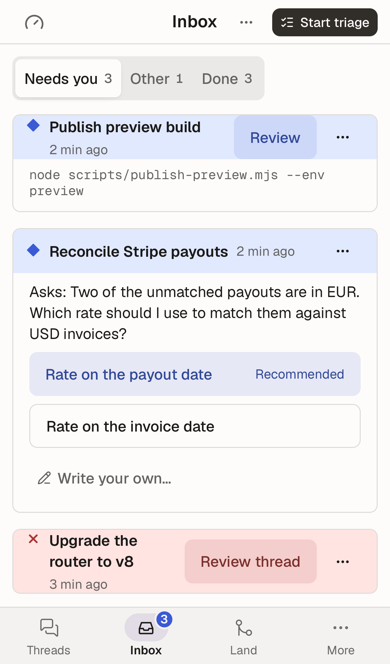
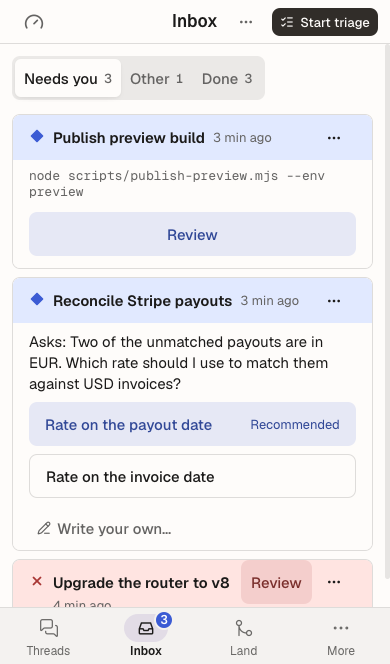
fix(activity-timeline): give a phone Inbox card's title its own row
Council round 6 (C1): on a compact pane the verb wrapped the card title onto two lines. A card with a body now draws its verbs as full-width 44 px buttons at the bottom of its body. The head row is padded 12 by 16 px and holds the title, age and menu. A bodyless Failed card keeps its verb in the head under the short name Review (12 px inset), and its accessible name stays Review thread. Its verb and menu top-align with the title line, and the age wraps under the title. Phone cards stack 8 px apart with no padding under a 44 pt Write your own row, so the third card's action ends above the tab bar at 390x664. The desktop stack stays 16 px.

diff --git a/plugins/@dshfiles/activity-timeline/src/inbox-panel.tsx b/plugins/@dshfiles/activity-timeline/src/inbox-panel.tsx
@@ -67,8 +67,12 @@ import { ThreadReferences } from './thread-reference.js'
 
 const PROVIDER_VERBS: readonly AttentionProviderVerb[] = ['Approve', 'Land', 'Retry', 'Resume']
 
-/** The list is a stack of cards (each item draws its own surface, InboxView.CARD), not one bordered box of rows. */
-const INBOX_STACK = 'dshx:gap-4 dshx:divide-y-0 dshx:rounded-none dshx:border-0 dshx:bg-transparent'
+/**
+ * The list is a stack of cards (each item draws its own surface, InboxView.CARD), not one bordered box of rows: 16px
+ * apart, 8px on a compact pane, where the band and the border already part them and the third card's action stays above
+ * the fold (round six C1).
+ */
+const INBOX_STACK = 'dshx:gap-4 dshx:divide-y-0 dshx:rounded-none dshx:border-0 dshx:bg-transparent dshx:@max-pane-narrow:gap-2'
 
 /** A prompt-library reply a stopped thread's card offers in its menu. */
 interface InboxQuickReply {
@@ -238,11 +242,18 @@ const InboxRow = (props: {
       ? null
       : (ThreadReferences.threadIdIn(item.reason) ?? (item.detail === null ? null : ThreadReferences.threadIdIn(item.detail)))
   /**
-   * The card's verbs in its head row, trailing, before the menu (round five C4, council round 5): what it asks for and
-   * every other verb on one line with the title, so the body holds only what it says and its answers.
+   * The card's verbs (round five C4, council round 5): in its head row, trailing, before the menu, on a wide pane. On a
+   * compact pane a card with a body draws them at the bottom of its body as full-width 44px buttons instead (round six
+   * C1), so the title owns its row; a bodyless Failed card keeps its one verb in the head, under a short name.
    */
-  const headVerbs = (
-        <div data-inbox-row-actions="band" className="dshx:-my-1 dshx:flex dshx:flex-wrap dshx:items-center dshx:justify-end dshx:gap-1 dshx:pointer-coarse:my-0">
+  const hasVerbs =
+    (open && PROVIDER_VERBS.some(verb => item.verbs.includes(verb))) || (open && props.onReview !== undefined) || (openable && !answerable) || undo !== null
+  const footed = InboxView.footsVerbs(compact)
+  const verbButtons = (place: 'head' | 'foot'): JSX.Element => {
+    const size = place === 'head' ? cn('dshx:shrink', InboxView.HEAD_VERB) : InboxView.FOOT_VERB
+    const shortLabel = place === 'head' && !footed ? t(InboxView.shortOpenLabelKey(InboxView.openActionOf(item))) : null
+    return (
+      <>
           {open
             ? PROVIDER_VERBS.filter(verb => item.verbs.includes(verb)).map(verb =>
                 verb === 'Land' ? (
@@ -250,7 +261,7 @@ const InboxRow = (props: {
                     key={verb}
                     size="sm"
                     variant="outline"
-                    className={cn('dshx:shrink', INBOX_CHIP, InboxView.HEAD_VERB)}
+                    className={cn(INBOX_CHIP, size)}
                     disabled={props.busy}
                     onClick={() => setConfirmingLand(true)}
                   >
@@ -261,7 +272,7 @@ const InboxRow = (props: {
                     key={verb}
                     size="sm"
                     variant="outline"
-                    className={cn('dshx:shrink', INBOX_CHIP, InboxView.HEAD_VERB)}
+                    className={cn(INBOX_CHIP, size)}
                     disabled={props.busy}
                     onClick={() => props.onAct(item, verb)}
                   >
@@ -271,7 +282,7 @@ const InboxRow = (props: {
               )
             : null}
           {open && props.onReview !== undefined ? (
-            <Button size="sm" variant="outline" className={cn(INBOX_CHIP, InboxView.HEAD_VERB)} onClick={() => props.onReview?.(item)}>
+            <Button size="sm" variant="outline" className={cn(INBOX_CHIP, size)} onClick={() => props.onReview?.(item)}>
               {t('review')}
             </Button>
           ) : null}
@@ -279,28 +290,30 @@ const InboxRow = (props: {
             <Button
               size="sm"
               variant={open && !item.verbs.includes('Answer') ? InboxView.attentionVariant(status) : 'ghost'}
-              className={cn('dshx:shrink dshx:max-w-full', INBOX_CHIP, InboxView.HEAD_VERB)}
+              className={cn('dshx:max-w-full', INBOX_CHIP, size, shortLabel !== null && InboxView.SHORT_VERB)}
+              aria-label={openLabel}
               onClick={() => props.onOpen(item)}
             >
-              <span className="dshx:truncate">{openLabel}</span>
+              <span className={cn('dshx:truncate', shortLabel !== null && 'dshx:@max-pane-narrow:hidden')}>{openLabel}</span>
+              {shortLabel === null ? null : <span className="dshx:hidden dshx:truncate dshx:@max-pane-narrow:inline">{shortLabel}</span>}
             </Button>
           ) : null}
           {undo === 'reopen' || undo === 'unsnooze' ? (
-            <Button size="sm" variant="outline" className={cn('dshx:shrink', InboxView.HEAD_VERB)} disabled={props.busy} onClick={() => props.onReopen(item)}>
+            <Button size="sm" variant="outline" className={size} disabled={props.busy} onClick={() => props.onReopen(item)}>
               {undo === 'reopen' ? t('reopen') : t('unsnooze')}
             </Button>
           ) : null}
           {undo === 'unmute' ? (
-            <Button
-              size="sm"
-              variant="outline"
-              className={cn('dshx:shrink', InboxView.HEAD_VERB)}
-              disabled={props.busy}
-              onClick={() => props.onMute(item.source, false)}
-            >
+            <Button size="sm" variant="outline" className={size} disabled={props.busy} onClick={() => props.onMute(item.source, false)}>
               {t('unmuteSource')}
             </Button>
           ) : null}
+      </>
+    )
+  }
+  const headVerbs = (
+        <div data-inbox-row-actions="band" className={InboxView.HEAD_SEAT}>
+          {footed ? <span className={InboxView.HEAD_VERBS_WIDE}>{verbButtons('head')}</span> : verbButtons('head')}
           {/* Utility verbs live in the card's menu (round five P2): the row shows the one verb it asks for. */}
           {doneable || snoozable || quickReplies.length > 0 || mutable ? (
             <DropdownMenu>
@@ -354,7 +367,15 @@ const InboxRow = (props: {
   )
   /** The answers a question offers, under it: the one row of controls a card body keeps. */
   const answers = !answerable ? null : (
-        <div data-inbox-row-actions="" className={cn('dshx:flex dshx:flex-wrap dshx:items-center dshx:gap-2 dshx:px-3 dshx:pt-2 dshx:pb-3', InboxView.BODY_INSET)}>
+        <div
+          data-inbox-row-actions=""
+          className={cn(
+            'dshx:flex dshx:flex-wrap dshx:items-center dshx:gap-2 dshx:px-3 dshx:pt-2 dshx:pb-3',
+            // A 44pt "Write your own…" ends a phone card: its own target already leaves 14px under its words (round six C1).
+            openable && 'dshx:@max-pane-narrow:pointer-coarse:pb-0',
+            InboxView.BODY_INSET,
+          )}
+        >
           {[
                 ...item.choices.map((choice, index) => (
                   <Button
@@ -419,6 +440,8 @@ const InboxRow = (props: {
         'dshx:relative',
         // The verbs and the menu share the head row with the title on every width (round five C4, council round 5).
         InboxView.CARD_HEAD,
+        // A bodyless Failed card's verb and menu sit beside its title line, its age under the title (round six C1).
+        !footed && InboxView.COMPACT_SEAT,
         phone && gestures.offset === 0 && 'dshx:transition-transform dshx:duration-150',
         InboxView.headerBand(status),
       )}
@@ -489,6 +512,17 @@ const InboxRow = (props: {
         </div>
       )}
       {props.actionRow === false ? null : answers}
+      {props.actionRow === false || !footed || !hasVerbs ? null : (
+        <div data-inbox-row-actions="foot" className={cn(
+            InboxView.FOOT_VERBS,
+            // 12px from what is above: the body's or the answers' own padding gives it, a bodyless card adds it here.
+            reason === null && card.detail === null && answers === null && 'dshx:pt-3',
+            answers !== null && openable && 'dshx:@max-pane-narrow:pointer-coarse:pt-3',
+          )}
+        >
+          {verbButtons('foot')}
+        </div>
+      )}
       {/* Land rebases the thread's work onto the bookmark and moves it: say what lands before it runs (never one click). */}
       <AlertDialog open={confirmingLand} onOpenChange={setConfirmingLand}>
         <AlertDialogContent className="dshx-root">

diff --git a/plugins/@dshfiles/activity-timeline/src/inbox-view.ts b/plugins/@dshfiles/activity-timeline/src/inbox-view.ts
@@ -87,12 +87,49 @@ const BODY_INSET = 'dshx:pl-9 dshx:@max-pane-narrow:px-4'
 const HEAD_VERB = 'dshx:h-7 dshx:pointer-coarse:h-11'
 
 /**
- * The head row's trailing seat (the verbs and the menu) is an ordinary part of the row at every width. On a phone it
- * stays beside the title instead of wrapping under it (the kit drops it to a line of its own on a narrow pane), and the
- * band is the 44pt seat's height with the title centred on it.
+ * The head row's trailing seat (the menu, and on a wide pane the verbs) is an ordinary part of the row at every width.
+ * On a compact pane (round six C1) the head is padded 12px by 16px and the seat stays beside the title instead of
+ * wrapping under it (the kit drops it to a line of its own on a narrow pane): the title owns the row with its age and ⋯.
  */
 const CARD_HEAD =
-  'dshx:@max-pane-narrow:[&>div:first-child]:items-center dshx:@max-pane-narrow:[&>div:first-child]:py-0 dshx:@max-pane-narrow:[&>div:first-child]:min-h-11 dshx:@max-pane-narrow:[&_[data-slot=entity-row-trailing]]:w-auto'
+  'dshx:@max-pane-narrow:[&>div:first-child]:items-center dshx:@max-pane-narrow:[&>div:first-child]:px-4 dshx:@max-pane-narrow:[&>div:first-child]:py-3 dshx:@max-pane-narrow:[&_[data-slot=entity-row-trailing]]:w-auto'
+
+/**
+ * The head row's seat: 28px controls pulled 4px into the row's padding on a wide pane; on a compact pane the 44pt ⋯ sits
+ * inside the 12px padding, so the head stays 44px tall (important: the touch rule `my-0` is emitted after the container
+ * query and would otherwise win on a phone).
+ */
+const HEAD_SEAT =
+  'dshx:-my-1 dshx:flex dshx:flex-wrap dshx:items-center dshx:justify-end dshx:gap-1 dshx:pointer-coarse:my-0 dshx:@max-pane-narrow:-my-3!'
+
+/** A card with a body hands its verbs to the foot on a compact pane; a bodyless (compact) Failed card keeps them in its head. */
+const footsVerbs = (compactCard: boolean): boolean => !compactCard
+
+/** The head's verbs of a card that foots them: shown on a wide pane only. */
+const HEAD_VERBS_WIDE = 'dshx:contents dshx:@max-pane-narrow:hidden'
+
+/**
+ * The verbs at the bottom of a card's body on a compact pane (round six C1): each a full-width 44px button, 12px from the
+ * text above and the card's edge, so the title never wraps for a button. Hidden on a wide pane, where the head holds them.
+ */
+const FOOT_VERBS = 'dshx:hidden dshx:flex-col dshx:gap-2 dshx:px-4 dshx:pb-3 dshx:@max-pane-narrow:flex'
+const FOOT_VERB = 'dshx:w-full dshx:h-11'
+
+/**
+ * A bodyless (compact) card on a compact pane: its verb and menu keep to the title line, top-aligned, and the age wraps
+ * under the title, so the row never grows the verb's band past the title line.
+ */
+const COMPACT_SEAT =
+  'dshx:@max-pane-narrow:[&_[data-slot=entity-row-trailing]]:self-start dshx:@max-pane-narrow:[&_[data-inbox-row-actions=band]]:gap-0'
+
+/**
+ * That verb's 10px inset on a compact pane (a touch screen gives chips 16px) and no gap before the ghost ⋯, so a title
+ * of about 177px ("Upgrade the router to v8") keeps one line at 390px.
+ */
+const SHORT_VERB = 'dshx:@max-pane-narrow:px-2.5!'
+
+/** The short name a compact card's open verb shows on a phone, so its title keeps one line ("Review", not "Review thread"). */
+const shortOpenLabelKey = (action: InboxOpenAction): 'review' | 'open' => (action === 'review' || action === 'approval' ? 'review' : 'open')
 
 /** Sources whose type says nothing a card does not (a finished turn): the card names the thread's project instead. */
 const PROJECT_SOURCES: ReadonlySet<string> = new Set(['thread-sidebar.finished-turn'])
@@ -305,6 +342,14 @@ export class InboxView {
   static readonly BODY_INSET = BODY_INSET
   static readonly HEAD_VERB = HEAD_VERB
   static readonly CARD_HEAD = CARD_HEAD
+  static readonly HEAD_SEAT = HEAD_SEAT
+  static readonly footsVerbs = footsVerbs
+  static readonly HEAD_VERBS_WIDE = HEAD_VERBS_WIDE
+  static readonly FOOT_VERBS = FOOT_VERBS
+  static readonly FOOT_VERB = FOOT_VERB
+  static readonly shortOpenLabelKey = shortOpenLabelKey
+  static readonly COMPACT_SEAT = COMPACT_SEAT
+  static readonly SHORT_VERB = SHORT_VERB
   static readonly namesProject = namesProject
   static readonly TITLE = TITLE
   static readonly COMMAND = COMMAND

diff --git a/plugins/@dshfiles/activity-timeline/src/inbox-round6.test.ts b/plugins/@dshfiles/activity-timeline/src/inbox-round6.test.ts
@@ -1,0 +1,56 @@
+import { readFileSync } from 'node:fs'
+import { describe, expect, it } from 'vitest'
+import { InboxView } from './inbox-view.js'
+
+const panel = readFileSync(new URL('./inbox-panel.tsx', import.meta.url), 'utf8')
+const row = panel.slice(panel.indexOf('const InboxRow = '), panel.indexOf('const InboxActionSheet = '))
+const between = (from: string, to: string): string => row.slice(row.indexOf(from), row.indexOf(to, row.indexOf(from)))
+
+describe('a phone Inbox card (round six C1)', () => {
+  it('pads the head row 12px by 16px and gives the title its own line, not a 44pt band around the verb', () => {
+    expect(InboxView.CARD_HEAD).toContain('dshx:@max-pane-narrow:[&>div:first-child]:py-3')
+    expect(InboxView.CARD_HEAD).toContain('dshx:@max-pane-narrow:[&>div:first-child]:px-4')
+    expect(InboxView.CARD_HEAD).not.toContain('py-0')
+    expect(InboxView.CARD_HEAD).not.toContain('min-h-11')
+    // The 44pt ⋯ (and a compact card's verb) sits inside the 12px padding, so the head stays 44px tall.
+    expect(InboxView.HEAD_SEAT).toContain('dshx:@max-pane-narrow:-my-3!')
+  })
+
+  it('moves the verb of a card with a body to a full-width 44px button at the bottom of the body', () => {
+    expect(InboxView.footsVerbs(false)).toBe(true)
+    expect(InboxView.FOOT_VERBS).toContain('dshx:hidden')
+    expect(InboxView.FOOT_VERBS).toContain('dshx:@max-pane-narrow:flex')
+    expect(InboxView.FOOT_VERBS).toContain('dshx:px-4')
+    expect(InboxView.FOOT_VERBS).toContain('dshx:pb-3')
+    expect(InboxView.FOOT_VERB).toContain('dshx:w-full')
+    expect(InboxView.FOOT_VERB).toContain('dshx:h-11')
+    // The head keeps the verbs on a wide pane and only the menu on a compact one.
+    expect(InboxView.HEAD_VERBS_WIDE).toContain('dshx:@max-pane-narrow:hidden')
+    const foot = between('data-inbox-row-actions="foot"', '</div>')
+    expect(foot).toContain("verbButtons('foot')")
+    expect(row).toContain("verbButtons('head')")
+  })
+
+  it('keeps a bodyless Failed card one row, its verb shortened on a phone and its full name kept for assistive tech', () => {
+    expect(InboxView.footsVerbs(true)).toBe(false)
+    expect(InboxView.shortOpenLabelKey('review')).toBe('review')
+    expect(InboxView.shortOpenLabelKey('approval')).toBe('review')
+    expect(InboxView.shortOpenLabelKey('thread')).toBe('open')
+    const open = between('{openable && !answerable ? (', '</Button>')
+    expect(open).toContain('aria-label={openLabel}')
+    expect(open).toContain('dshx:@max-pane-narrow:hidden')
+    expect(open).toContain('shortLabel !== null && InboxView.SHORT_VERB')
+    expect(InboxView.SHORT_VERB).toBe('dshx:@max-pane-narrow:px-2.5!')
+    // Its verb and menu keep to the title line, top-aligned; the age wraps under the title.
+    expect(InboxView.COMPACT_SEAT).toContain('dshx:@max-pane-narrow:[&_[data-slot=entity-row-trailing]]:self-start')
+    expect(InboxView.COMPACT_SEAT).toContain('dshx:@max-pane-narrow:[&_[data-inbox-row-actions=band]]:gap-0')
+    expect(row).toContain('!footed && InboxView.COMPACT_SEAT')
+  })
+
+  it('stacks phone cards 8px apart (16px on a wide pane) and drops the padding under a 44pt "Write your own…"', () => {
+    const stack = /const INBOX_STACK = '([^']*)'/u.exec(panel)?.[1] ?? ''
+    expect(stack).toContain('dshx:gap-4')
+    expect(stack).toContain('dshx:@max-pane-narrow:gap-2')
+    expect(between('const answers = ', 'const row = ')).toContain("openable && 'dshx:@max-pane-narrow:pointer-coarse:pb-0'")
+  })
+})

diff --git a/plugins/@dshfiles/activity-timeline/src/inbox-round5.test.ts b/plugins/@dshfiles/activity-timeline/src/inbox-round5.test.ts
@@ -17,8 +17,10 @@ describe('an Inbox card (round five C4, council round 5)', () => {
   it('puts the verbs in the head row, trailing, before the menu, on every card', () => {
     // Every card, not only a bodyless Failed one, hands its verbs to the row's trailing seat.
     expect(row).toMatch(/trailing=\{props\.actionRow === false && !compact \? undefined : headVerbs\}/u)
-    const verbs = between('const headVerbs = ', 'const answers = ')
+    // Round six C1: one set of verb buttons, drawn in the head (and, on a compact pane, at the foot of a card's body).
+    const verbs = between('const verbButtons = ', 'const answers = ')
     expect(verbs).toContain('data-inbox-row-actions="band"')
+    expect(verbs).toContain("verbButtons('head')")
     expect(verbs).toContain('PROVIDER_VERBS.filter')
     expect(verbs).toContain('{openLabel}')
     // The menu is the seat's last control, not a box pinned over the band.
@@ -31,7 +33,8 @@ describe('an Inbox card (round five C4, council round 5)', () => {
     expect(InboxView.HEAD_VERB).toContain('dshx:h-7')
     const open = between('{openable && !answerable ? (', '{openLabel}')
     expect(open).toContain('InboxView.attentionVariant(status)')
-    expect(open).toContain('InboxView.HEAD_VERB')
+    expect(open).toContain('size')
+    expect(between('const verbButtons = ', 'const headVerbs = ')).toContain("place === 'head' ? cn('dshx:shrink', InboxView.HEAD_VERB)")
   })
 
   it('keeps only content and answers in the body', () => {

diff --git a/plugins/@dshfiles/activity-timeline/src/inbox-round3.test.ts b/plugins/@dshfiles/activity-timeline/src/inbox-round3.test.ts
@@ -36,8 +36,8 @@ describe('an Inbox card on a phone (round five C3, council round 3)', () => {
     // Round five C4 (council round 5): the menu ends the head row's trailing seat instead of being pinned over it.
     const verbs = row.slice(row.indexOf('const headVerbs = '), row.indexOf('const answers = '))
     expect(verbs).toMatch(/aria-label=\{t\('more'\)\}/u)
-    // The head is 44pt tall on a phone.
-    expect(InboxView.CARD_HEAD).toContain('dshx:@max-pane-narrow:[&>div:first-child]:min-h-11')
+    // The head is 44pt tall on a phone: 12px padding around the 20px title (round six C1).
+    expect(InboxView.CARD_HEAD).toContain('dshx:@max-pane-narrow:[&>div:first-child]:py-3')
     expect(row).toContain('InboxView.CARD_HEAD')
   })
 

diff --git a/plugins/@dshfiles/activity-timeline/src/inbox-round4.test.ts b/plugins/@dshfiles/activity-timeline/src/inbox-round4.test.ts
@@ -15,7 +15,7 @@ describe('an Inbox card (round five C3, council round 4)', () => {
   it('keeps the card menu in the head band on every width, not on the row of verbs', () => {
     // Round five C4 (council round 5): the menu ends the head row's trailing seat, beside the verbs, at every width.
     expect(row).toMatch(/trailing=\{props\.actionRow === false && !compact \? undefined : headVerbs\}/u)
-    expect(InboxView.CARD_HEAD).toContain('dshx:@max-pane-narrow:[&>div:first-child]:min-h-11')
+    expect(InboxView.CARD_HEAD).toContain('dshx:@max-pane-narrow:[&>div:first-child]:py-3')
     expect(row).toContain('InboxView.CARD_HEAD')
   })
 
